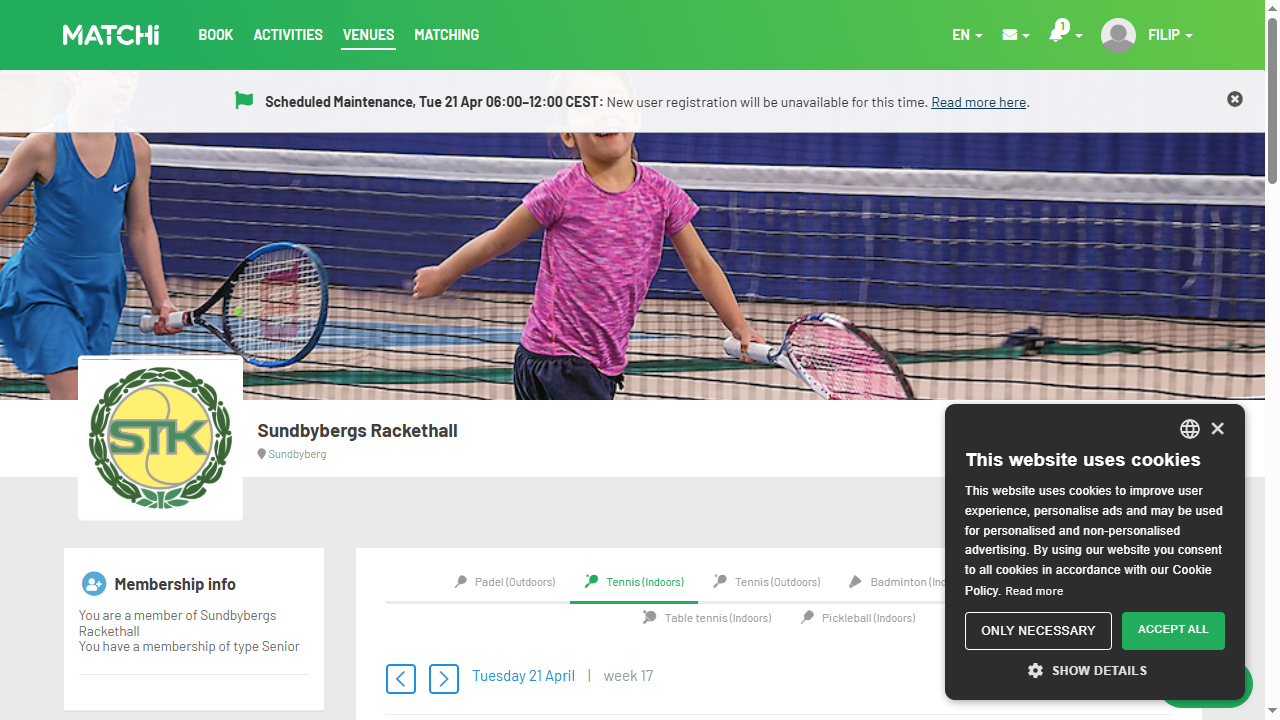
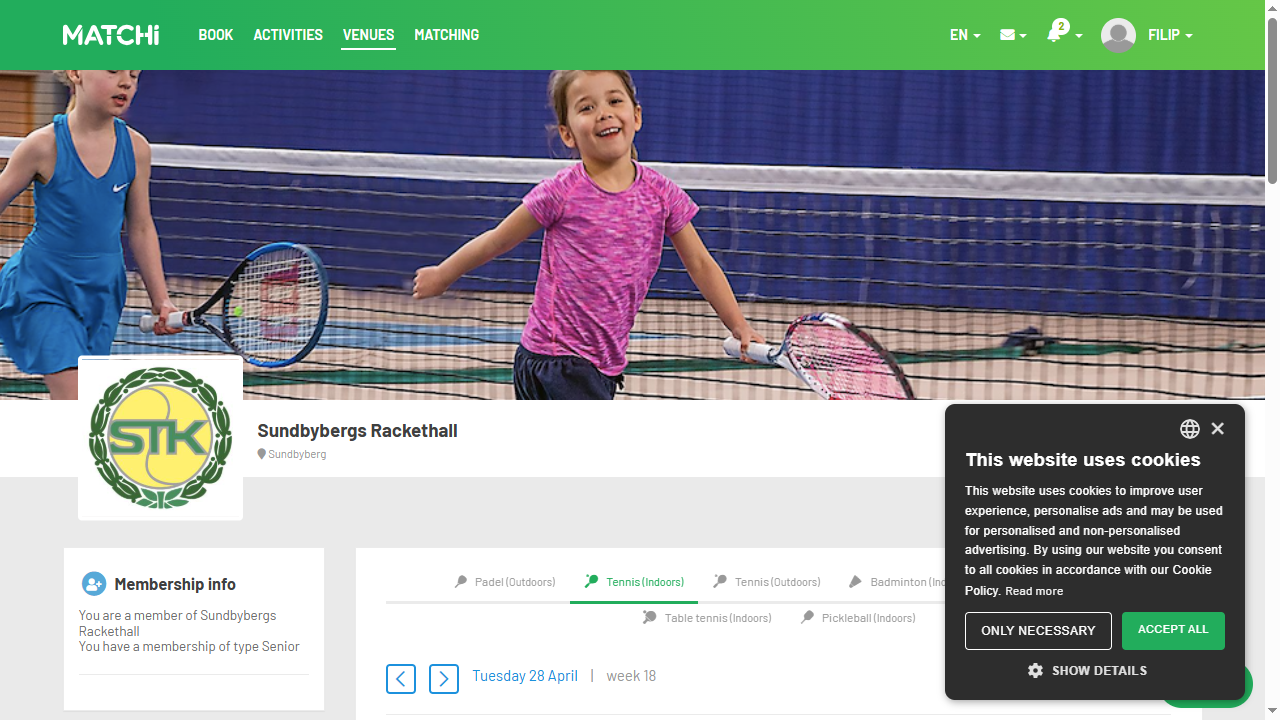
Locating to specified date + booking first available court on that date.

Changed region(s): [[0.0, 0.0917, 1.0, 0.1833], [0.4062, 0.9167, 0.5312, 0.9472], [0.75, 0.0306, 0.8438, 0.0611]]

diff --git a/app/booking_service.py b/app/booking_service.py
@@ -33,6 +33,15 @@ class BookingService:
             page = session.page
             page.screenshot(path="debug_facility_page.png")
             #print(f"Opened facility page for {target_date} at {target_time}")
+            
+            date_ok = self.go_to_target_date(page, target_date)
+            # expected_date = self.format_matchi_date(target_date)
+            # current_date = page.locator("#picker_daily").inner_text().strip()
+
+            if not date_ok:
+
+                return False
+            
             found = self.find_and_click_first_free_slot(
                 page=page,
                 target_time=target_time,
@@ -78,38 +87,73 @@ class BookingService:
         return False
     
     def find_and_click_first_free_slot(self, page, target_time: str, duration_minutes: int) -> bool:
-        free_slots = page.locator("td.slot.free")
-        count = free_slots.count()
+        rows = page.locator("#schedule-table tbody tr").all()
 
-        print(f"Found {count} free slots on page")
+        for row_index, row in enumerate(rows):
+            court_label_locator =row.locator("td.court")
 
-        for i in range(count):
-            slot = free_slots.nth(i)
-
-            tooltip = slot.get_attribute("data-original-title") or ""
-            slot_duration = slot.get_attribute("data-slot-duration") or ""
-            slot_id = slot.get_attribute("slotid")
-
-            if not slot_id:
+            if court_label_locator.count() == 0:
                 continue
 
-            if slot_duration != str(duration_minutes):
-                continue
+            court_name = court_label_locator.inner_text().strip().strip()
+            free_slots = row.locator("td.slot.free")
+            slot_count = free_slots.count()
 
-            if self.slot_matches_time(tooltip, target_time):
-                link_selector = f"a#s{slot_id}"
-                print(f"Matching slot found: slotid={slot_id}, tooltip={tooltip}")
+            for i in range(slot_count):
+                slot = free_slots.nth(i)
+                tooltip = slot.get_attribute("data-original-title") or ""
+                slot_duration = slot.get_attribute("data-slot-duration") or ""
+                slotId = slot.get_attribute("slotid")
 
-                page.locator(link_selector).click()
-                page.wait_for_timeout(1500)
+                if not slotId:
+                    continue
 
-                return True
-            
+                if slot_duration != str(duration_minutes):
+                    continue
+
+                if self.slot_matches_time(tooltip, target_time):
+                    print(f"Found matching slot on {court_name}: {tooltip}")
+
+                    try:
+                        slot.click(timeout=3000)
+                    except Exception as e:
+                        print(f"Visible slot click failed, trying hidden booking link: {e}")
+                        page.locator(f"a#s{slotId}").evaluate("el => el.click()")
+                    
+                    page.wait_for_timeout(2000)
+                    
+                    return True
+
         return False
-    
+
     def slot_matches_time(self, tooltip: str, target_time: str) -> bool:
         """Tooltip example: 'Available<br>1. Tennis<br> 12:00 - 13:00'
         """
         normalized = tooltip.replace("&lt;br&gt;", " ").replace("<br>", " ").strip()
 
         return f"{target_time} -" in normalized
+    
+    def format_matchi_date(self, target_date: str) -> str:
+        date_obj = datetime.strptime(target_date, "%Y-%m-%d")
+        
+        return date_obj.strftime("%A %d %B")
+    
+    def go_to_target_date(self, page, target_date: str, max_clicks: int = 15) -> bool:
+        expected_date = self.format_matchi_date(target_date)
+
+        for i in range(max_clicks + 1):
+            current_date = page.locator("#picker_daily").inner_text().strip()
+
+            print(f"Current date: {current_date}")
+            print(f"Target date: {expected_date}")
+
+            if current_date == expected_date:
+                return True
+            
+            page.locator("i.ti-angle-right").click()
+            page.wait_for_load_state("networkidle")
+            page.wait_for_timeout(700)
+
+        print("Failed to navigate to target date within max clicks")
+        
+        return False

diff --git a/app/matchi_client.py b/app/matchi_client.py
@@ -36,11 +36,20 @@ class MatchiClient:
         page.goto("https://www.matchi.se/login", wait_until="domcontentloaded")
 
         # May need to adjust selectors
-        page.locator('input[type="email"]').fill(self.email)
-        page.locator('input[type="password"]').fill(self.password)
+        email_field = page.locator(
+            'input[type="email"], input[name*="email" i], input[name*="username" i], input[type="text"]'
+        ).first
+        # page.locator('input[type="email"]').fill(self.email)
+        password_field = page.locator('input[type="password"]').first
+        email_field.fill(self.email)
+        password_field.fill(self.password)
         page.locator('button[type="submit"]').click()
 
-        page.wait_for_load_state("networkidle")
+        try:
+            page.wait_for_load_state("networkidle", timeout=5000)
+        except Exception:
+            print("Network did not become idle after login; continuing anyway.")
+        page.wait_for_timeout(2000)
         time.sleep(2)
 
     def open_facility(self, session: MatchiSession, facility_url: str) -> None:
